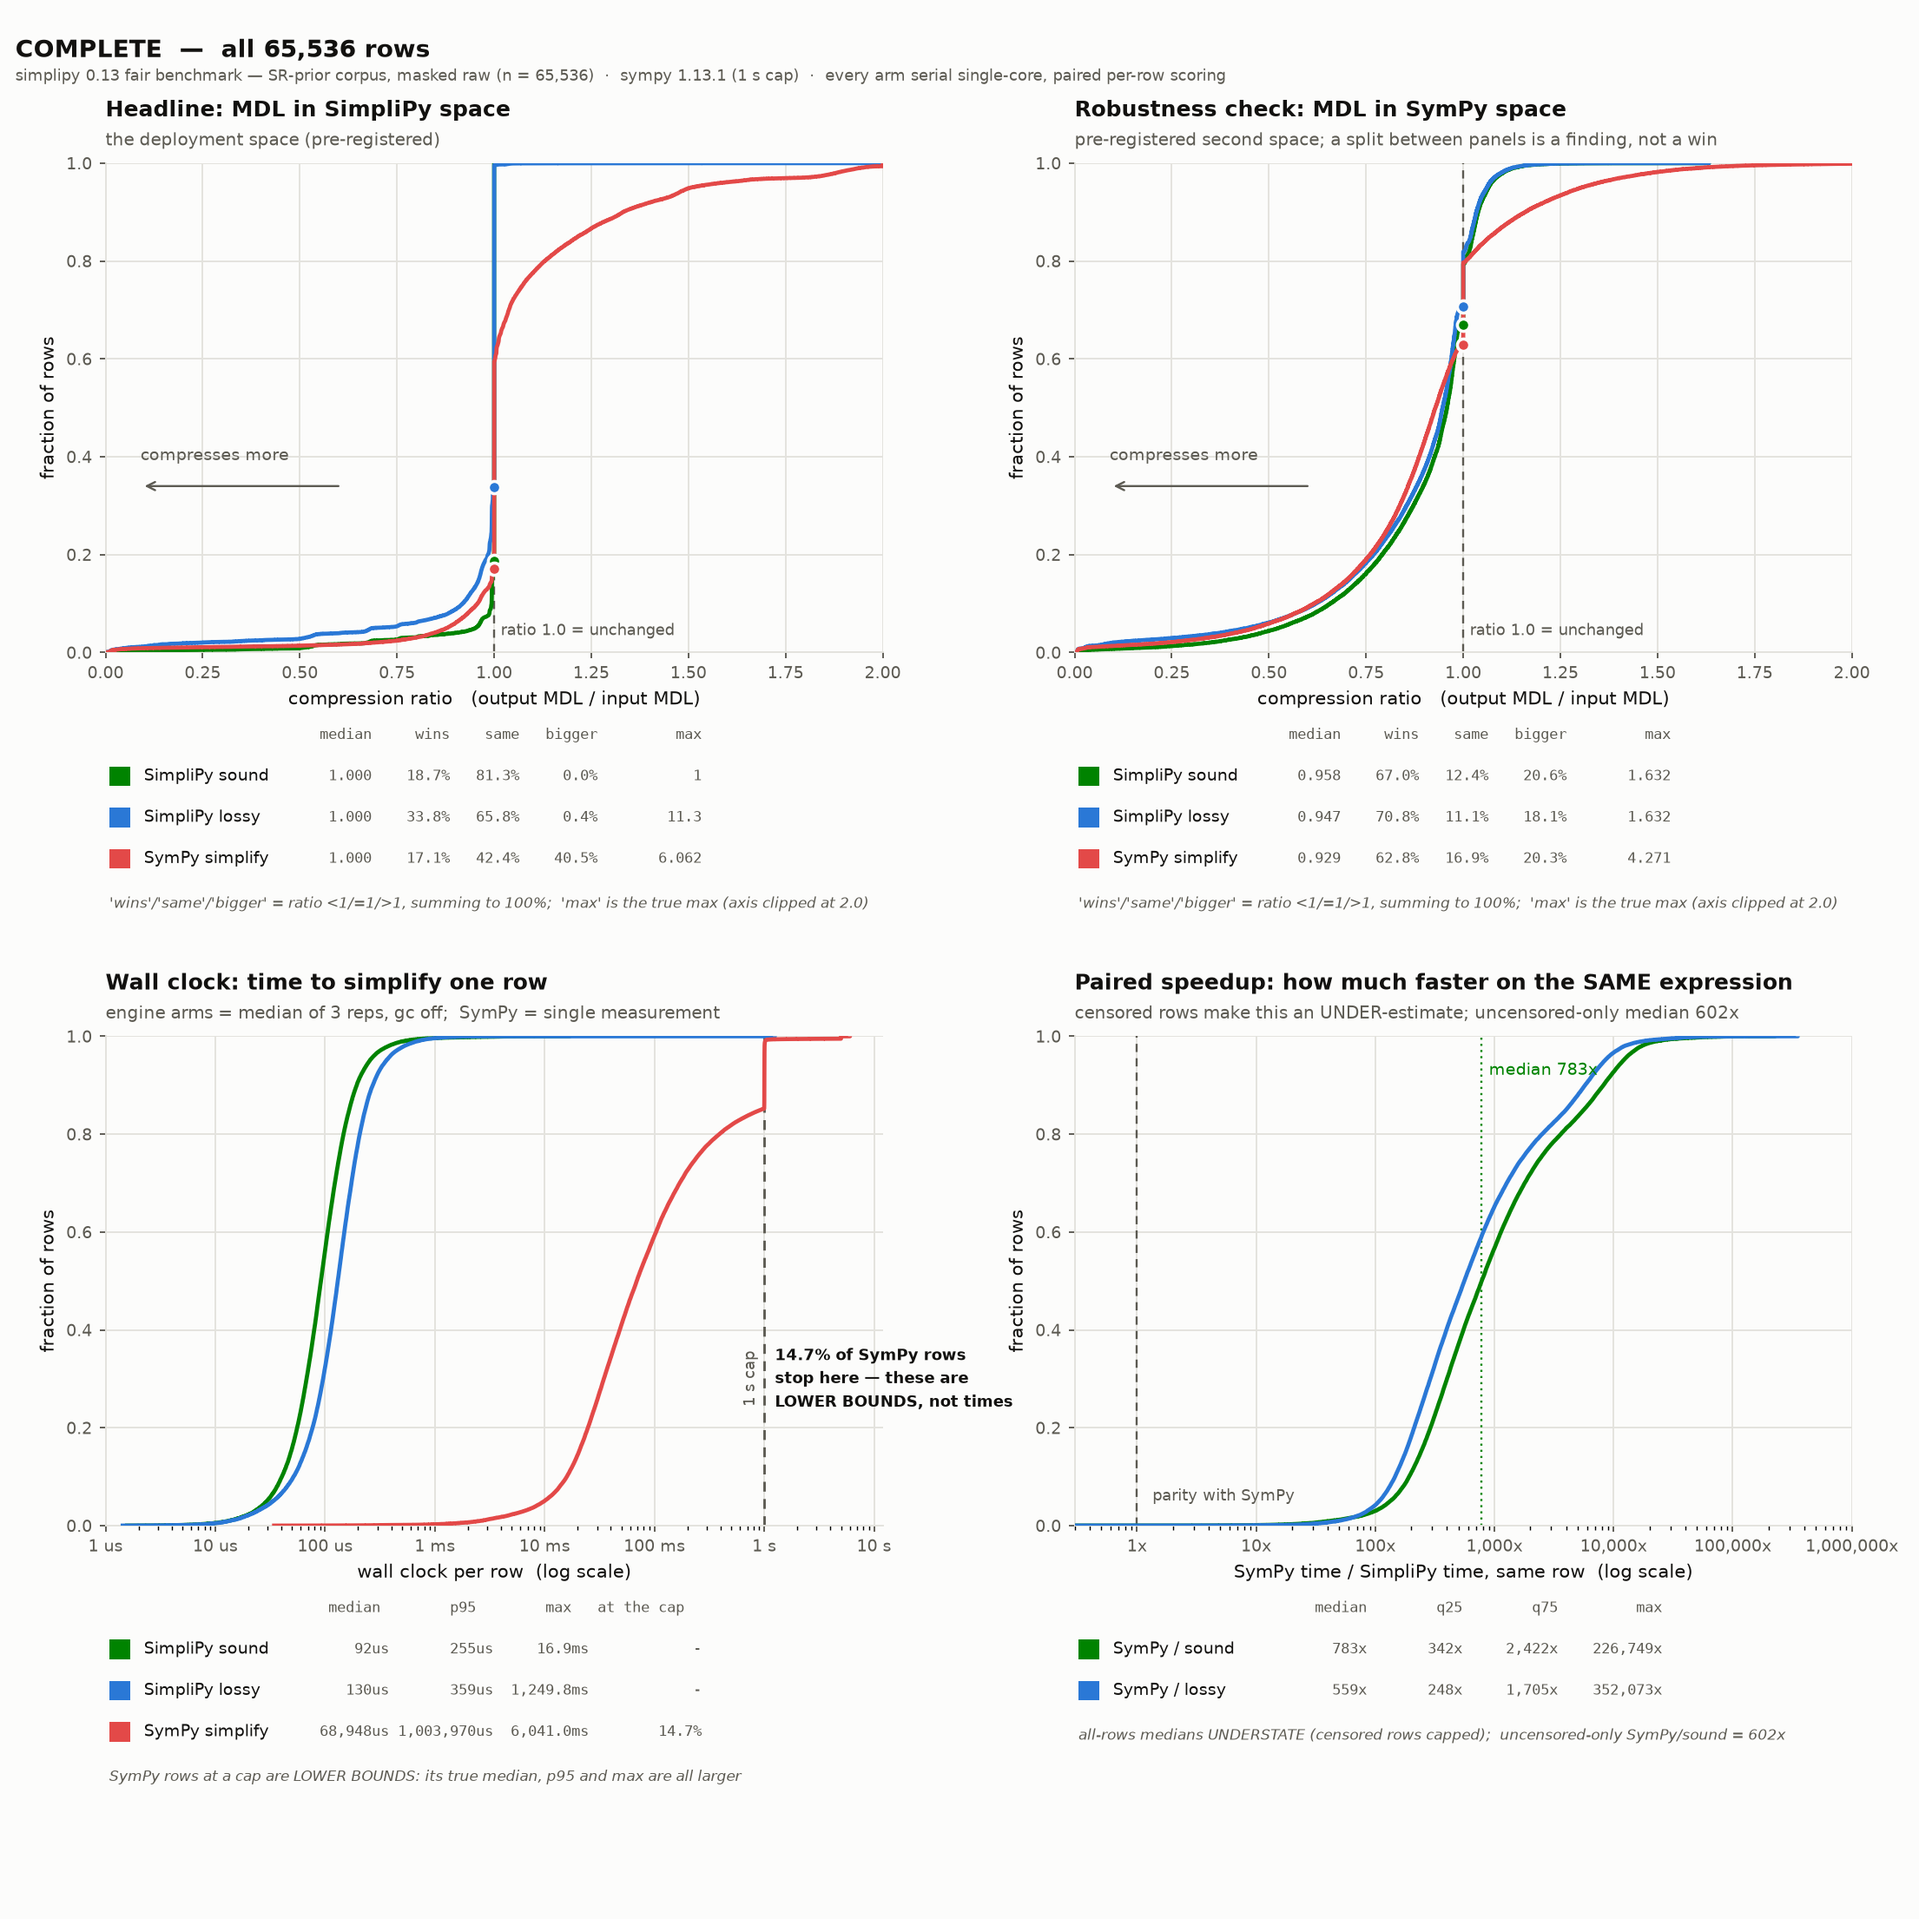
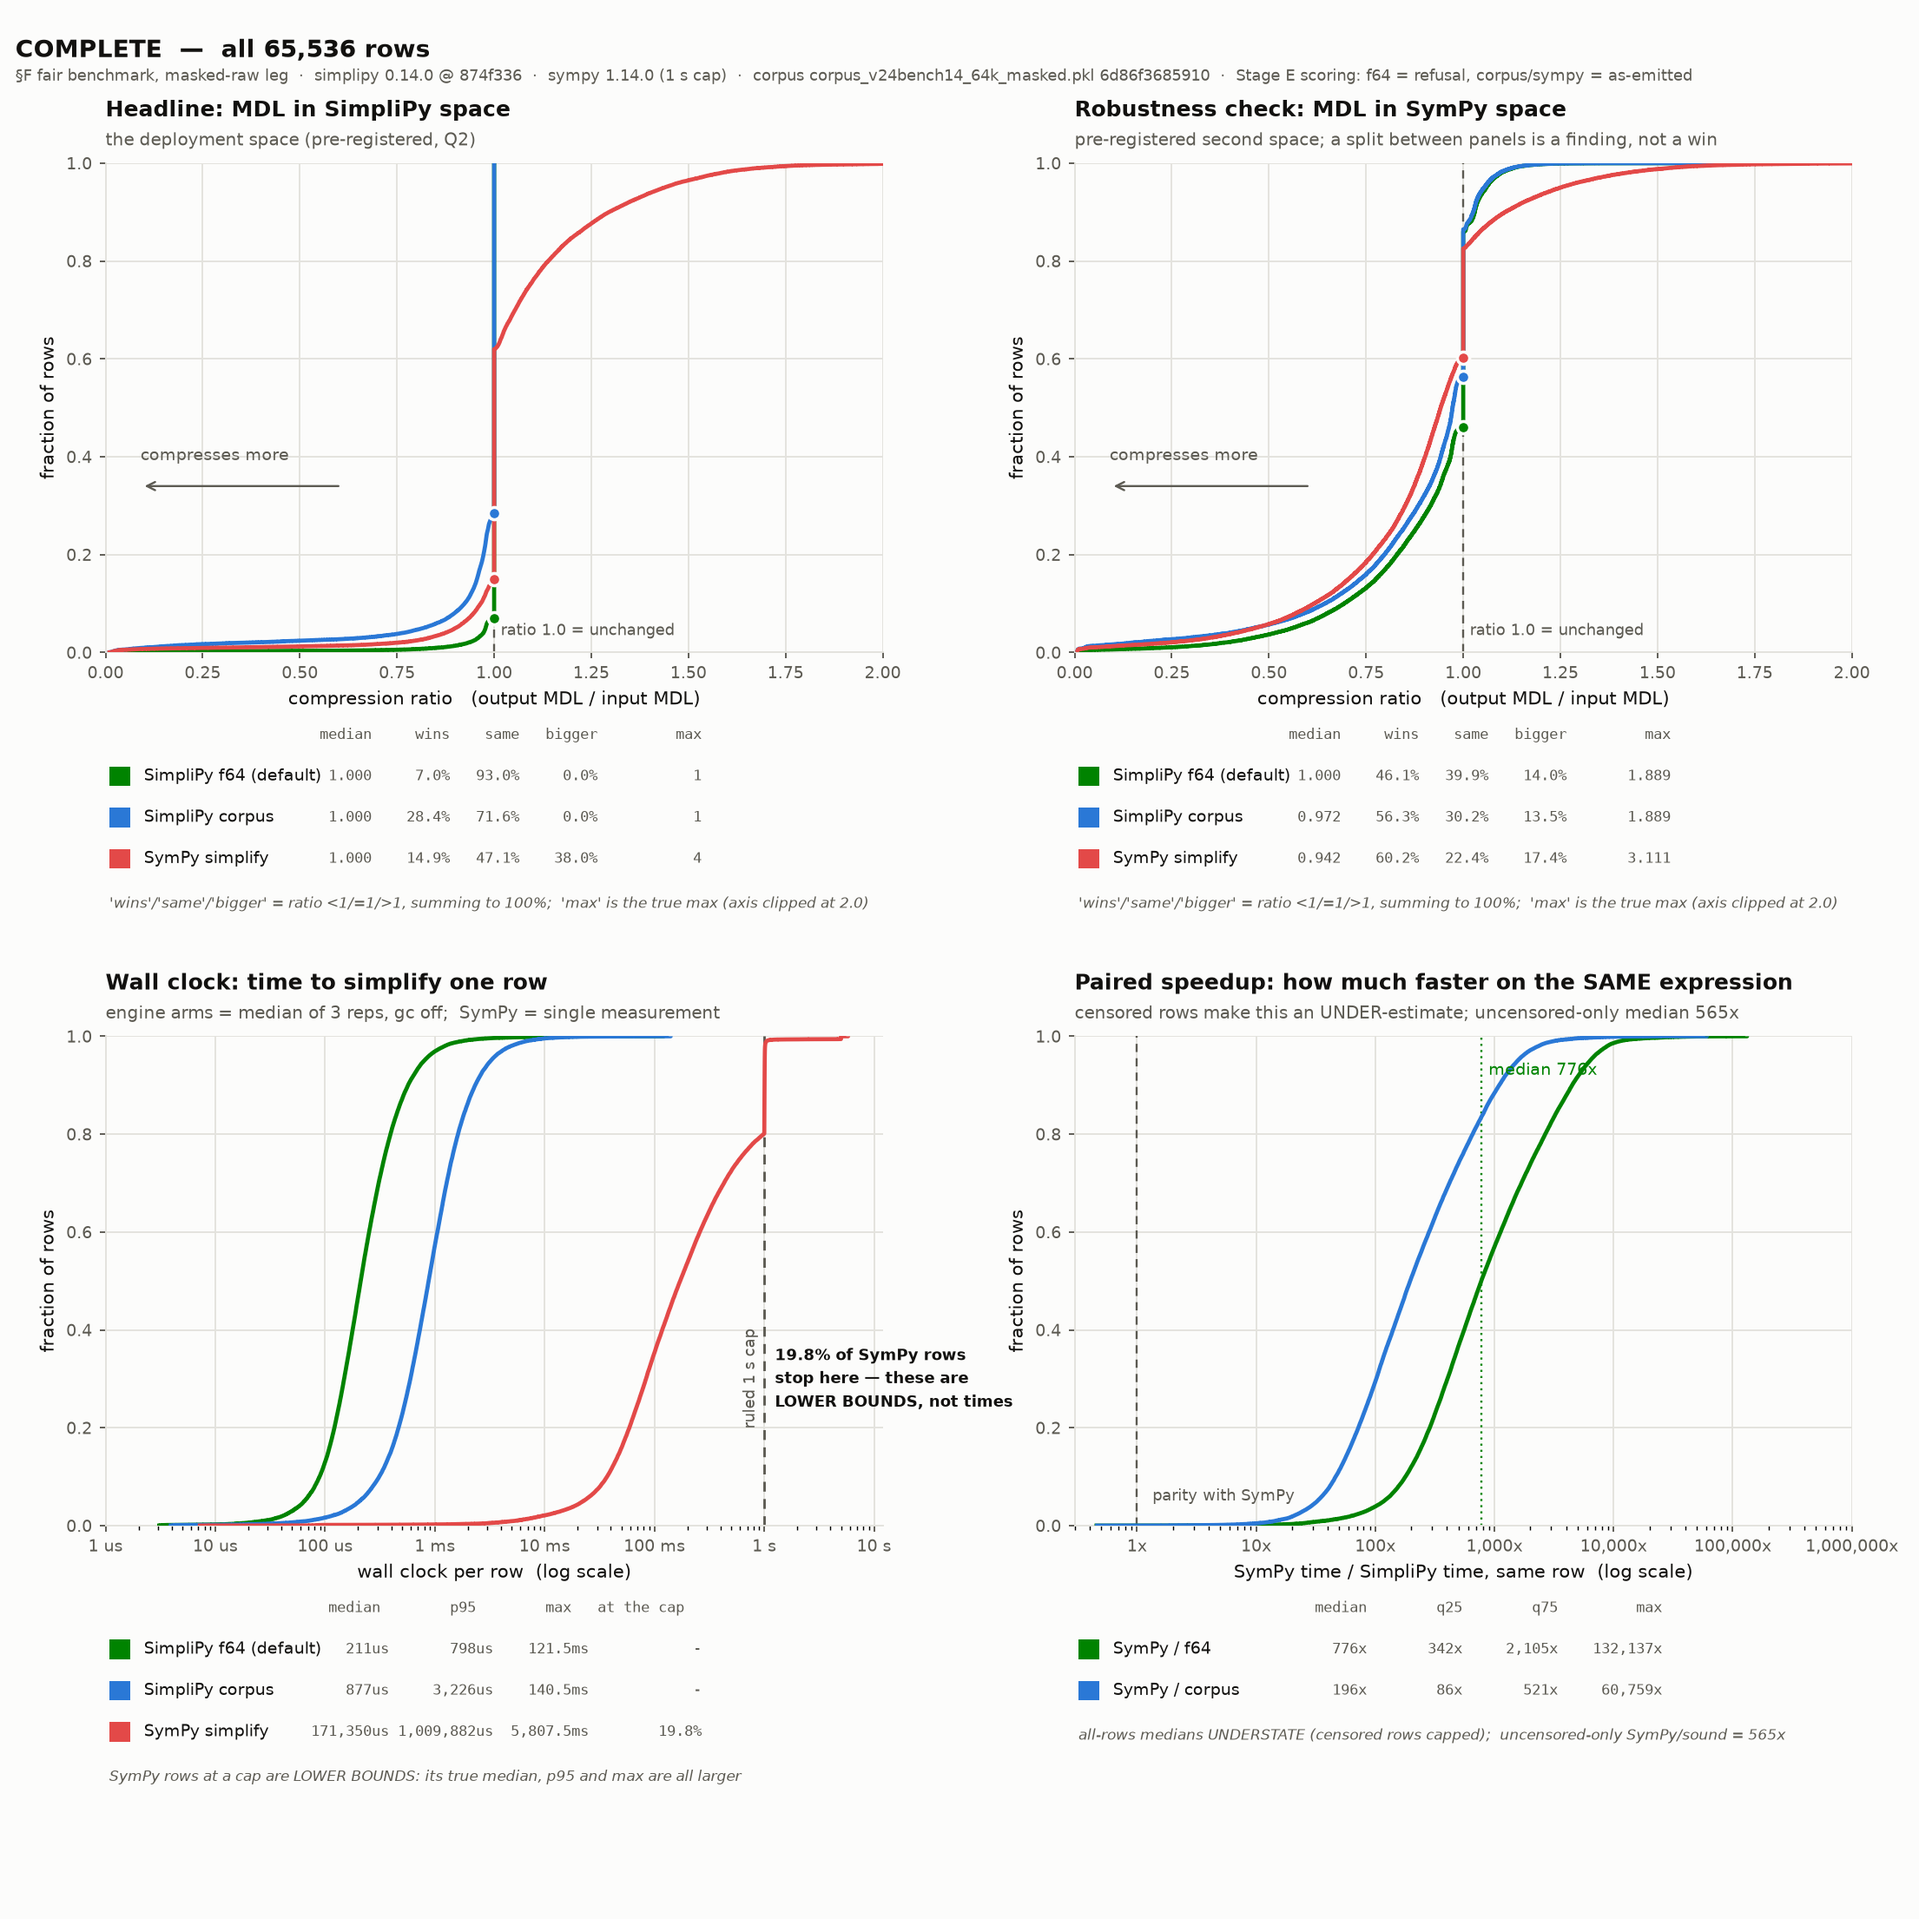
The 0.14.0 benchmark lands on the public surfaces
Run15, the full three-corpus campaign on the release build (874f336, acj-4,
SymPy 1.14.0, 1 s cap): README gets the headline table and the minimal
compression panel; the simplify guide gets the full per-corpus table with
both simplipy modes and the refreshed ECDF figures for all three legs; the
CHANGELOG records the re-measurement. Zero inflated rows in 131,600 across
both modes; corpus mode leads every SR-shaped corpus; median paired
speedups 650-780x.

Claude-Session: https://claude.ai/code/session_01MktGcCWQs8zePRutL56sT4

diff --git a/docs/guides/simplify.md b/docs/guides/simplify.md
@@ -272,32 +272,37 @@ engine line; the published ruleset artifacts are the distinguishing factor betwe
 and rule application always considers every pattern in the loaded artifact.
 
 The published fair benchmark is pre-registered: serial
-single-core for every arm, paired per-row scoring against SymPy 1.13.1
+single-core for every arm, paired per-row scoring against SymPy 1.14.0
 (1 s cap, censoring stated on the panel), three corpora — an SR training
 prior (n = 65,536), its raw-masked transform (n = 65,536), and an
 external neutral problem set (n = 528). Scored in the deployment space
 under the MDL measure, with bootstrap 95% CIs; ratio = output/input, lower
 is better; "made bigger" = the fraction of rows an arm inflated. Measured
-on the 0.13.1 release, whose `f64` mode was then spelled `sound`.
+on the 0.14.0 release: `f64` is the shipped default (`effort=4`), `corpus`
+is `Mode.corpus` at its default.
 
 | corpus | arm | mean ratio | wins | made bigger |
 |---|---|---|---|---|
-| SR prior, unmasked | simplipy f64 | **0.964** | 9.1% | **0.0%** |
-| | sympy simplify | 1.081 | 17.2% | 41.7% |
-| SR prior, masked raw | simplipy f64 | **0.982** | **18.7%** | **0.0%** |
-| | sympy simplify | 1.072 | 17.1% | 40.5% |
-| external set | simplipy f64 | 0.999 | 1.3% | **0.0%** |
-| | sympy simplify | 1.023 | 19.1% | 19.3% |
+| SR prior, unmasked | simplipy f64 (default) | **0.966** | 11.7% | **0.0%** |
+| | simplipy corpus | **0.940** | **29.5%** | **0.0%** |
+| | sympy simplify | 1.078 | 15.1% | 40.1% |
+| SR prior, masked raw | simplipy f64 (default) | **0.993** | 7.0% | **0.0%** |
+| | simplipy corpus | **0.961** | **28.4%** | **0.0%** |
+| | sympy simplify | 1.059 | 14.9% | 38.0% |
+| external set | simplipy f64 (default) | 0.995 | 4.0% | **0.0%** |
+| | simplipy corpus | 0.995 | 4.5% | **0.0%** |
+| | sympy simplify | 1.045 | 15.0% | 22.7% |
 
-The simplipy arm never inflated a single row of 131,600: refusal semantics
-mean an unprovable rewrite returns the input unchanged. SymPy's `simplify`
-inflates roughly four rows in ten on SR-shaped corpora and hits its 1 s
-timeout on ~14% of raw-masked rows. Paired wall-clock on the same rows:
-median speedup **~780×** (masked raw) / ~600–800× across corpora, medians
-at 92–130 µs per row against SymPy's ~69 ms. On the external set both
-systems are near the fixpoint; SymPy's 19.1% wins there are dominated by
-number-respelling (floats rewritten as exact rationals), not structural
-simplification.
+No simplipy arm inflated a single row of 131,600, in either mode: refusal
+semantics mean an unprovable rewrite returns the input unchanged, and the
+serve construction never returns a costlier form than the input under its
+own mode's measure. SymPy's `simplify` inflates roughly four rows in ten
+on SR-shaped corpora and hits its 1 s timeout on ~20% of them (censored
+rows score ratio 1, the charitable choice). Paired wall-clock on the same
+rows: median speedup **~650–780×** across corpora, medians at 211–265 µs
+per row against SymPy's ~171 ms. On the external set both systems are
+near the fixpoint; SymPy's wins there are dominated by number-respelling
+(floats rewritten as exact rationals), not structural simplification.
 
 ![ECDF, masked raw corpus](../assets/benchmarks/ecdf_masked_raw.png)
 

diff --git a/README.md b/README.md
@@ -96,14 +96,16 @@ More examples can be found in the [documentation](https://simplipy.readthedocs.i
 
 # Performance
 
-On a 65,536-expression symbolic-regression benchmark, paired per-row against SymPy's `simplify` (serial single-core):
+On a 65,536-expression symbolic-regression benchmark, paired per-row against SymPy's `simplify` (serial single-core, 1 s cap):
 
 | | SimpliPy | SymPy |
 |---|---:|---:|
-| Rows won head-to-head | **18.7%** | 17.1% |
-| Mean size ratio (lower is better) | **0.98** | 1.07 |
-| Expressions made bigger | **0.00%** | 40.5% |
-| Median per-row speedup | **≈780×** | 1× |
+| Mean size ratio (lower is better) | **0.97** | 1.08 |
+| Expressions strictly simplified | 11.7% | 15.1% |
+| Expressions made bigger | **0.00%** | 40.1% |
+| Median per-row speedup | **≈650×** | 1× |
+
+![Compression on the SR benchmark](docs/assets/benchmarks/ecdf_readme.png)
 
 Full results, figures, and methodology: [simplify guide](https://simplipy.readthedocs.io/en/stable/guides/simplify/) · [paper](https://arxiv.org/abs/2602.08885).
 

diff --git a/CHANGELOG.md b/CHANGELOG.md
@@ -155,6 +155,13 @@ historic siblings.
   strictly improves 3.18% of rows with zero regressions and captures every win budget
   64 finds, at +18% median per-row cost.
 
+- The fair benchmark is re-measured on the release build (three corpora,
+  131,600 rows): every simplipy arm at zero inflated rows, `f64` default at
+  0.966/0.993/0.995 mean ratio per corpus, `corpus` at 0.940/0.961/0.995,
+  SymPy 1.14.0 at 1.045–1.078 with 38–40% of SR-shaped rows made bigger.
+  README carries the headline panel; the simplify guide carries the full
+  figures.
+
 - `complexity(..., mode=...)` / FFI `rule_mode=` — the pricing instruments are
   **route-parameterized**. `complexity()` now parses its argument through the same
   route the named mode's chain descends from (fold-at-parse for `f64`/`corpus`,
